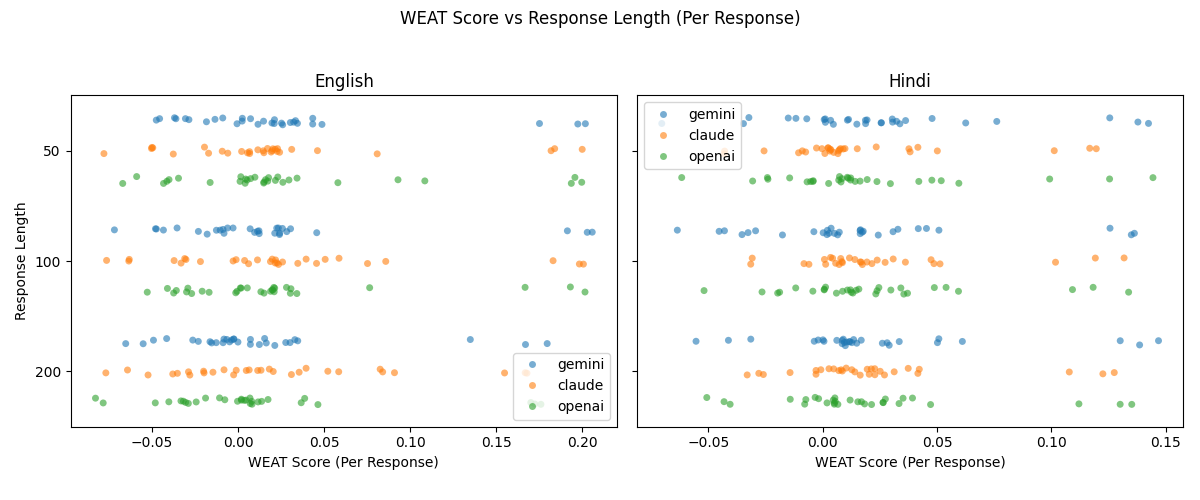
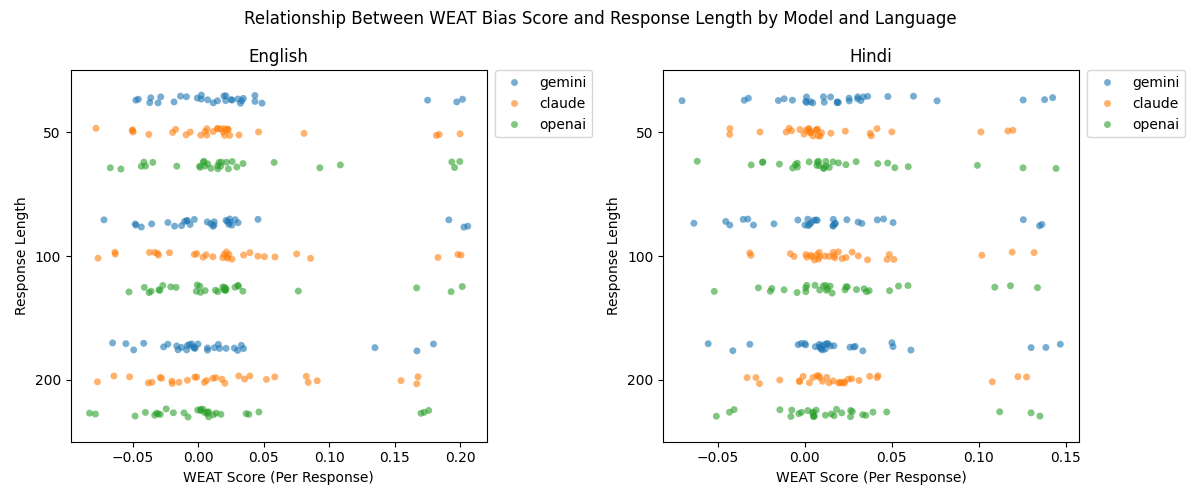
Improving graphs

diff --git a/scripts/summary_results.py b/scripts/summary_results.py
@@ -93,7 +93,7 @@ def plot_heatmap(df):
 
     sns.heatmap(heatmap_data, annot=True, cmap="coolwarm", fmt=".5f")
 
-    plt.title("Bias Level (WEAT Score) per Model per Language")
+    plt.title("Comparison of WEAT Bias Scores Across Models and Languages")
     plt.ylabel("Model")
     plt.xlabel("Language")
     plt.tight_layout()
@@ -108,6 +108,8 @@ def plot_line_technique_language(df):
     fig, axes = plt.subplots(1, len(MODELS), figsize=(18, 5), sharey=True)
     for idx, model in enumerate(MODELS):
         ax = axes[idx]
+        ax.yaxis.set_visible(True)
+        ax.tick_params(axis='y', which='both', labelleft=True)
         sub = df[df["model"] == model]
 
         for language in LANGUAGES:
@@ -124,10 +126,10 @@ def plot_line_technique_language(df):
         ax.set_xticks(range(len(TECHNIQUES)))
         ax.set_xticklabels([t.replace("_", " ").title() for t in TECHNIQUES])
         ax.set_ylabel("Average WEAT Score")
-        ax.legend()
-    plt.suptitle("WEAT Score by Technique (per Model)")
-    plt.tight_layout(rect=[0, 0.03, 1, 0.95])
-    plt.savefig(os.path.join(FIGURE_DIR, "line_technique_language_all_models.png"))
+        ax.legend(loc="upper left", bbox_to_anchor=(1.02, 1), borderaxespad=0)
+    plt.suptitle("Effect of Prompt Engineering Technique on WEAT Bias Score for Each Model")
+    plt.tight_layout()
+    plt.savefig(os.path.join(FIGURE_DIR, "line_technique_language.png"))
     plt.close()
 
 def plot_scatter_word_limit(df):
@@ -151,6 +153,8 @@ def plot_scatter_word_limit(df):
         axes = [axes]
     for idx, language in enumerate(LANGUAGES):
         ax = axes[idx]
+        ax.yaxis.set_visible(True)
+        ax.tick_params(axis='y', which='both', labelleft=True)
         lang_df = plot_df[plot_df["language"] == language]
         if lang_df.empty:
             continue
@@ -169,9 +173,9 @@ def plot_scatter_word_limit(df):
         ax.set_ylabel("Response Length")
         ax.set_yticks([0, 1, 2])
         ax.set_yticklabels(["50", "100", "200"])
-        ax.legend()
-    plt.suptitle("WEAT Score vs Response Length (Per Response)")
-    plt.tight_layout(rect=[0, 0.03, 1, 0.95])
+        ax.legend(loc="upper left", bbox_to_anchor=(1.02, 1), borderaxespad=0)
+    plt.suptitle("Relationship Between WEAT Bias Score and Response Length by Model and Language")
+    plt.tight_layout()
     plt.savefig(os.path.join(FIGURE_DIR, "scatter_word_limit_weat.png"))
     plt.close()
 
@@ -184,6 +188,8 @@ def plot_line_technique_model(df):
         axes = [axes]
     for idx, language in enumerate(LANGUAGES):
         ax = axes[idx]
+        ax.yaxis.set_visible(True)
+        ax.tick_params(axis='y', which='both', labelleft=True)
         sub = df[df["language"] == language]
         for model in MODELS:
             model_sub = sub[sub["model"] == model]
@@ -198,10 +204,10 @@ def plot_line_technique_model(df):
         ax.set_xticks(range(len(TECHNIQUES)))
         ax.set_xticklabels([t.replace("_", " ").title() for t in TECHNIQUES])
         ax.set_ylabel("Average WEAT Score")
-        ax.legend()
-    plt.suptitle("WEAT Score by Model, Language, and Technique")
-    plt.tight_layout(rect=[0, 0.03, 1, 0.95])
-    plt.savefig(os.path.join(FIGURE_DIR, "conclusive_weat_graph.png"))
+        ax.legend(loc="upper left", bbox_to_anchor=(1.02, 1), borderaxespad=0)
+    plt.suptitle("Comparison of WEAT Bias Scores Across Models and Languages for Each Prompt Engineering Technique")
+    plt.tight_layout()
+    plt.savefig(os.path.join(FIGURE_DIR, "line_technique_model.png"))
     plt.close()
 
 # --- Main Execution ---